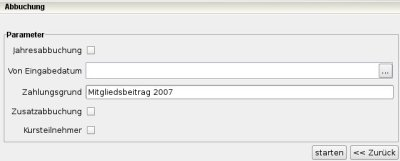
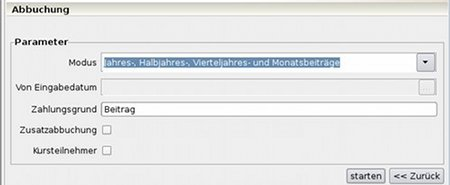
*** empty log message ***

diff --git a/doc/handbuch.tex b/doc/handbuch.tex
@@ -51,7 +51,10 @@ keinem Mitglied zugeordnet ist, gelöscht werden. Bei zugeordneten Beitragsgrupp
 \label{einstellungen}
 \includegraphics{./screenshots/einstellungen.jpg}\\
 Durch die Einstellungen kann das Verhalten von JVerein beeinflußt werden. Nach Änderungen der mit * gekennzeichneten Werte
-ist ein Neustart von Jameica erforderlich.\\
+ist ein Neustart von Jameica erforderlich.
+
+Siehe auch Beitragsmodelle Seite ~\pageref{beitragsmodelle}
+
 
 \begin{itemize}
  \item Geburtsdatum und Eintrittsdatum Pflichtfeld
@@ -61,8 +64,7 @@ ist ein Neustart von Jameica erforderlich.\\
  \item Tab Vermerke beim Mitglied anzeigen.
  \item Tab Wiedervorlage beim Mitglied anzeigen. Impliziert, dass die Übersicht der Wiedervorlagen (nicht) angezeigt wird. 
  \item Kursteilnehmer ein-/ausblenden. 
- \item Standard-Tab für die Mitglieder-Suche beim ersten Aufruf auswählen. Entweder kann der Buchstabe ``A'' oder der ``*'' für alle Mitglieder
-       ausgewählt werden.
+ \item Beitragsmodell. (siehe Beitragsmodelle Seite ~\pageref{beitragsmodelle})
 \end{itemize}
 
 
@@ -227,22 +229,21 @@ Eingabe eines neuen Kursteilnehmers:\\
 \chapter{Abbuchung}
 Abbuchungen werden mit dem untenstehenden Bildschirm initiiert. Es können
 \begin{itemize}
- \item Jahresbeiträge 
- \item Jahresbeiträge für im laufenden Jahr eingetretene Mitglieder
+ \item Mitgliedsbeiträge je nach Beitragsmodell (siehe Beitragsmodelle Seite ~\pageref{beitragsmodelle}) 
+ \item Beiträge für im laufenden Jahr eingetretene Mitglieder
  \item Zusatzbeträge
  \item Kursgebühren
 \end{itemize}
 verarbeitet werden.
 
-Wenn Jahresabbuchung angeklickt wurde, werden für alle Mitglieder, die nicht ausgetreten sind, die Beiträge gemäß eingetragener Beitragsgruppe eingezogen. Für Mitglieder, die im Laufe des Jahres eingetreten sind, können ebenfalls die Beiträge eingezogen werden. Dazu wird das Eingabedatum eingetragen, ab dem die Beiträge für nachträglich eingetretene Mitglieder abgebucht werden sollen.
+Sofern als Modus nicht ``keine Beitragsabbuchung'' ausgewählt wurde, werden für alle Mitglieder, die nicht ausgetreten sind, die Beiträge gemäß eingetragener Beitragsgruppe und Zahlungsrhytmus eingezogen. 
+
+Für Mitglieder, die im Laufe des Jahres eingetreten sind, können ebenfalls die Beiträge eingezogen werden. Dazu wird das Eingabedatum eingetragen, ab dem die Beiträge für nachträglich eingetretene Mitglieder abgebucht werden sollen.
 
 Mit der Option Zusatzabbuchung werden auch die zusätzlichen Beträge abgebucht.
 
 Die Daten werden in eine DTAUS-Datei geschrieben. Diese Datei kann entweder direkt auf Diskette ausgegeben und bei der Bank eingereicht oder zum Beispiel in Hibiscus importiert werden.\\
-\includegraphics{./screenshots/abbuchung.jpg}\\
-Tip! Mit der Funktion Jahresabbuchung können natürlich auch monatlich, vierteljährlich, halbjährlich oder in anderen
-Rhytmen Abbuchungen durchgeführt werden.
-
+\includegraphics{./screenshots/abbuchung.jpg}
 
 \chapter{Zusatzabbuchungen}
 Für jedes Mitglied können Zusatzabbuchungen hinterlegt werden. Diese Beträge werden zusätzlich zum Mitgliedsbeitrag eingezogen. Die Zusatzabbuchung können einmalig (z. B. Eigenanteil für die Teilnahme an einer Veranstaltung) oder wiederkehrend (z. B. Instrumentenversicherung) angelegt werden. Als Wiederholungs-Intervall stehen
@@ -307,6 +308,19 @@ Der Mitgliederbestand kann nach den unten aufgeführten Merkmalen selektiert wer
 \section{Kursteilnehmer}
 Die Kursteilnehmer können nach Abbuchungsdatum selektiert werden. Die Ausgabe erfolgt im PDF-Format.\\
 \includegraphics{./screenshots/kursteilnehmerauswertung.jpg}\\
+
+\chapter{Beitragsmodelle}
+\label{beitragsmodelle}
+\section{Beitragsgruppen}
+Zur Beitragsberechnung sind eine oder mehrere Beitragsgruppen einzurichten. Z. B. Jugendliche, Erwachsene, Beitragsfreie. Jeder dieser Beitragsgruppen wird ein Text und eine Beiträgshöhe zugeordnet. Dabei kann es sich um Monats-, Vierteljahres-, Halbjahres- oder Jahresbeträge handeln. Siehe unten.
+\section{Familientarif}
+Alle Mitglieder, für die der Familientarif gilt sind einzeln einzugeben. Zur Abbildung eines Familientarifes sind 2 Beitragsgruppen einzurichten. Einmal eine Gruppe für den Zahler und eine Gruppe für die beitragsfreien Familienmitglieder. Als Zahler wird immer eines der famlienangehörigen Mitglieder auszuwählen. Es wird nicht ein evtl. zahlendes Elternteil, dass nicht Mitglied ist eingetragen. Die Famlienmitglieder sind miteinander verknüpft. Tritt das zahlende Mitglied aus, erscheint ein entsprechender Hinweis. Dann muss entweder ein bislang beitragsfreies Mitglied zum Zahler erklärt werden oder der Familienverband wird aufgelöst und es werden Einzelbeiträge erhoben. 
+\section{Zahlungsrhytmen} 
+JVerein unterstützt verschiedene Zahlungsrhytmen: 
+\begin{itemize}
+ \item Feste Zahlungstermine. Alle Mitglieder zahlen zu festen Terminen ihren Beitrag. Dieser Termin kann jährlich, halbjährlich, vierteljährlich oder monatlich sein. Zu diesem Termin wird für jedes Mitglied der Beitrag gemäß Beitragsgruppe eingezogen.
+ \item Unterschiedliche Zahlungstermine. Die Mitglieder zahlen einen Monatsbeitrag gemäß Beitragsgruppe. Dieser Beitrag wird entweder jährlich (12 Monatsbeiträge), halbjährlich (6 Monatsbeiträge), vierteljährlich (3 Monatsbeiträge) oder monatlich erhoben.
+\end{itemize}
 
 \chapter{GNU GENERAL PUBLIC LICENSE - GPL}
 \begin{verbatim}
